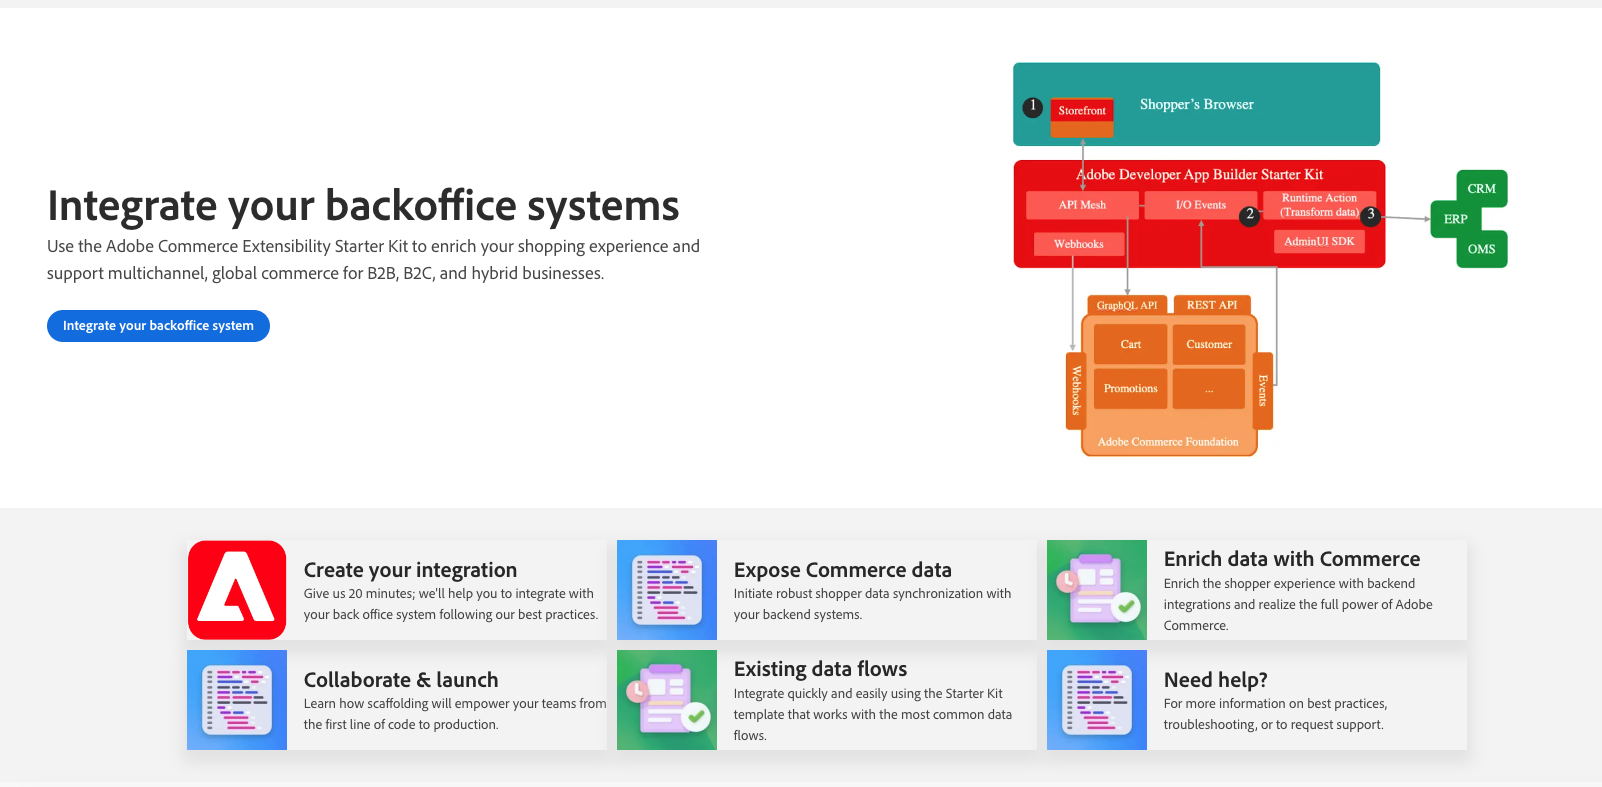
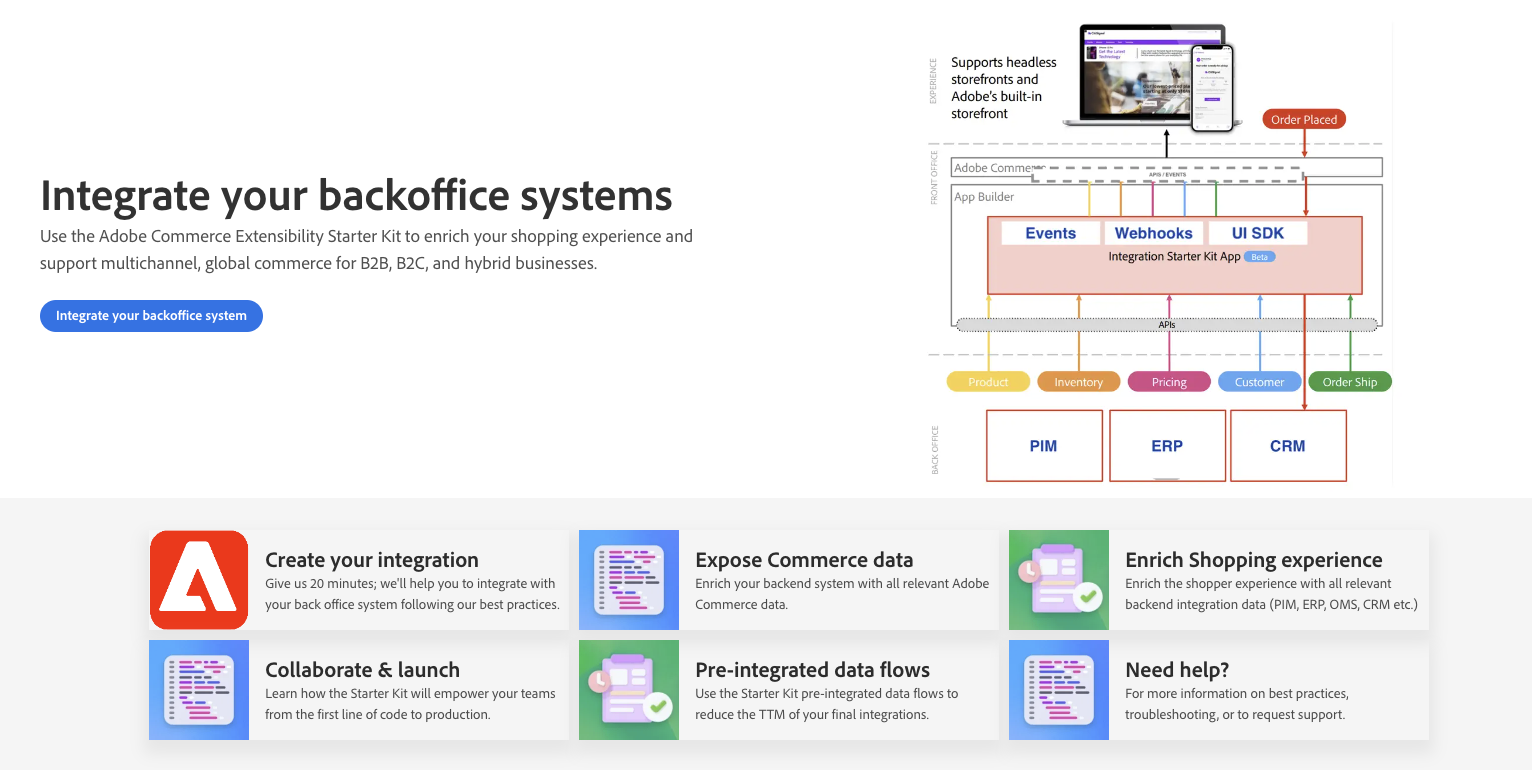
Change home page image, change some menu titles, change location of text in the create integartion page

Changed region(s): [[0.092, 0.6857, 0.9204, 0.9662], [0.6136, 0.0312, 0.951, 0.6234], [0.0307, 0.2182, 0.4602, 0.4364]]

diff --git a/src/data/navigation/sections/app-development.js b/src/data/navigation/sections/app-development.js
@@ -26,11 +26,11 @@ module.exports = [
         path: "/app-development/starter-kit/webhooks.md"
     },
     {
-        title: "Send Commerce data",
+        title: "Expose Commerce data",
         path: "/app-development/starter-kit/send-data.md"
     },
     {
-        title: "Receive data from external sources",
+        title: "Enrich Shopping experience",
         path: "/app-development/starter-kit/receive-data.md"
     },
     {

diff --git a/src/pages/app-development/starter-kit/index.md b/src/pages/app-development/starter-kit/index.md
@@ -16,8 +16,7 @@ import ProjectRequirements from '/src/_includes/project-requirements.md'
 <BetaNote />
 
 # Adobe Commerce Extensibility Starter Kit
-
-Integrating Adobe Commerce with your enterprise resource planning (ERP), order management system (OMS), or customer relationship management (CRM) is now easier with Adobe Commerce Extensibility Starter Kit. Starter Kit reduces the cost of integrating with ERP solutions and improves reliability of real-time connections. The Starter Kit includes reference integrations for commonly used commerce data like orders, products, and customers. It also includes onboarding scripts and a standardized architecture for developers to build while following best practices.
+Give us 45 minutes, and we will help you integrate Commerce with your back office system following our best practices.
 
 ## Prerequisites
 
@@ -27,7 +26,7 @@ To get started with Adobe Commerce Extensibility Starter Kit:
 
 ## Big picture
 
-Give us 45 minutes, and we will help you integrate Commerce with your back office system following our best practices.
+Integrating Adobe Commerce with your enterprise resource planning (ERP), order management system (OMS), or customer relationship management (CRM) is now easier with Adobe Commerce Extensibility Starter Kit. Starter Kit reduces the cost of integrating with ERP solutions and improves reliability of real-time connections. The Starter Kit includes reference integrations for commonly used commerce data like orders, products, and customers. It also includes onboarding scripts and a standardized architecture for developers to build while following best practices.
 
 ![starter kit diagram](../../_images/starterkit/starter-kit-diagram.png)
 

diff --git a/src/_includes/integration.md b/src/_includes/integration.md
@@ -1,7 +1,7 @@
 The `create`, `update`, and `delete` runtime actions in the Adobe Commerce Extensibility Starter Kit perform one of the following functions:
 
-- [Send Commerce data](../pages/app-development/starter-kit/send-data.md) - Notifies an external back-office application when an `<object>` is created, updated, or deleted in Adobe Commerce. Actions that react to Adobe Commerce events and notify the external back-office application are located in the `actions/<object>/commerce` folder.
-- [Receive data from external sources](../pages/app-development/starter-kit/receive-data.md) - Notifies Adobe Commerce when an `<object>` is created, updated, or deleted in an external back-office application. Actions that react to back-office application events and notify Adobe Commerce are located in the `actions/<object>/external` folder.
+- [Expose Commerce data](../pages/app-development/starter-kit/send-data.md) - Notifies an external back-office application when an `<object>` is created, updated, or deleted in Adobe Commerce. Actions that react to Adobe Commerce events and notify the external back-office application are located in the `actions/<object>/commerce` folder.
+- [Enrich Shopping experience](../pages/app-development/starter-kit/receive-data.md) - Notifies Adobe Commerce when an `<object>` is created, updated, or deleted in an external back-office application. Actions that react to back-office application events and notify Adobe Commerce are located in the `actions/<object>/external` folder.
 
 ![starter kit diagram](../pages/_images/starter-kit.png)
 

diff --git a/src/pages/app-development/starter-kit/send-data.md b/src/pages/app-development/starter-kit/send-data.md
@@ -1,5 +1,5 @@
 ---
-title: Send Commerce data
+title: Expose Commerce data
 description: Learn about the runtime action responsible for notifying the external backoffice application when data is modified in Adobe Commerce.
 keywords:
  - Extensibility
@@ -15,7 +15,7 @@ import integration from '/src/_includes/integration.md'
 
 <BetaNote />
 
-# Send Commerce data
+# Expose Commerce data
 
 This runtime action is responsible for notifying the external backoffice application when an `<object>` is created, updated, or deleted in Adobe Commerce.
 

diff --git a/src/pages/app-development/starter-kit/receive-data.md b/src/pages/app-development/starter-kit/receive-data.md
@@ -1,5 +1,5 @@
 ---
-title: Receive data from external sources
+title: Enrich Shopping experience
 description: Learn about how to receive data from the external backoffice application.
 keywords:
  - Extensibility
@@ -27,7 +27,7 @@ import integration from '/src/_includes/integration.md'
 
 <BetaNote />
 
-# Receive data from external sources
+# Enrich Shopping experience
 
 This runtime action is responsible for notifying Adobe Commerce when an `<object>` is created, updated, or deleted in the external backoffice application.
 
